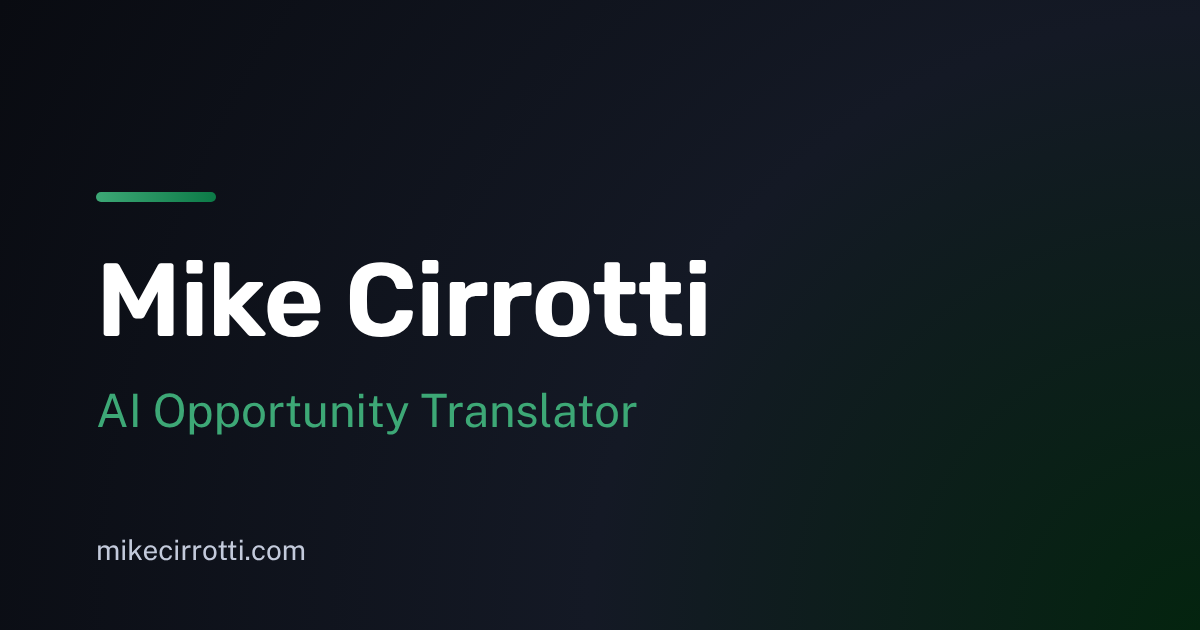
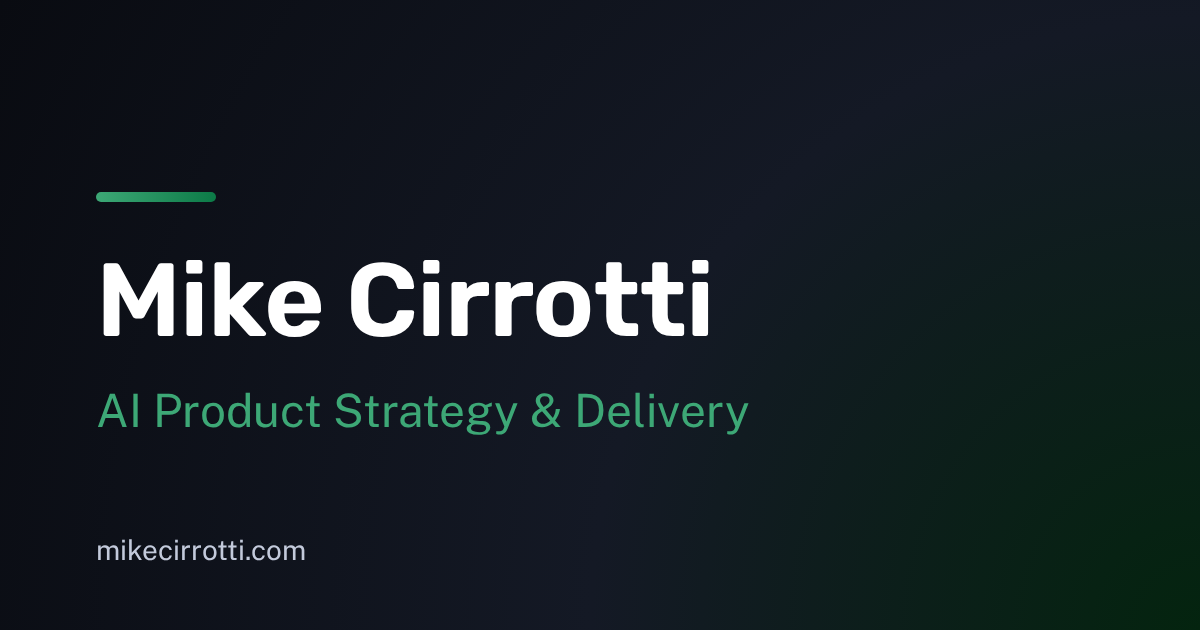
Align homepage and About with published LinkedIn positioning

diff --git a/src/lib/identity.ts b/src/lib/identity.ts
@@ -5,11 +5,12 @@
 
 export const identity = {
 	name: 'Mike Cirrotti',
-	title: 'AI Opportunity Translator',
+	title: 'AI Product Strategy & Delivery',
 	tagline:
-		'Aligning emerging technology to where it creates business value. Fluent both directions — strategy and build.',
+		'Turning business problems into useful data and AI solutions with multidisciplinary teams.',
+	footer: 'AI product strategy and delivery, grounded in analytics and insurance.',
 	oneLine:
-		'AI Opportunity Translator living in the gap between what organizations know and what AI can build.',
+		'AI product strategy and delivery, grounded in analytics, insurance expertise, and multidisciplinary team leadership.',
 	contact: {
 		email: 'mikecirrotti@gmail.com',
 		linkedin: 'https://www.linkedin.com/in/mikecirrotti',
